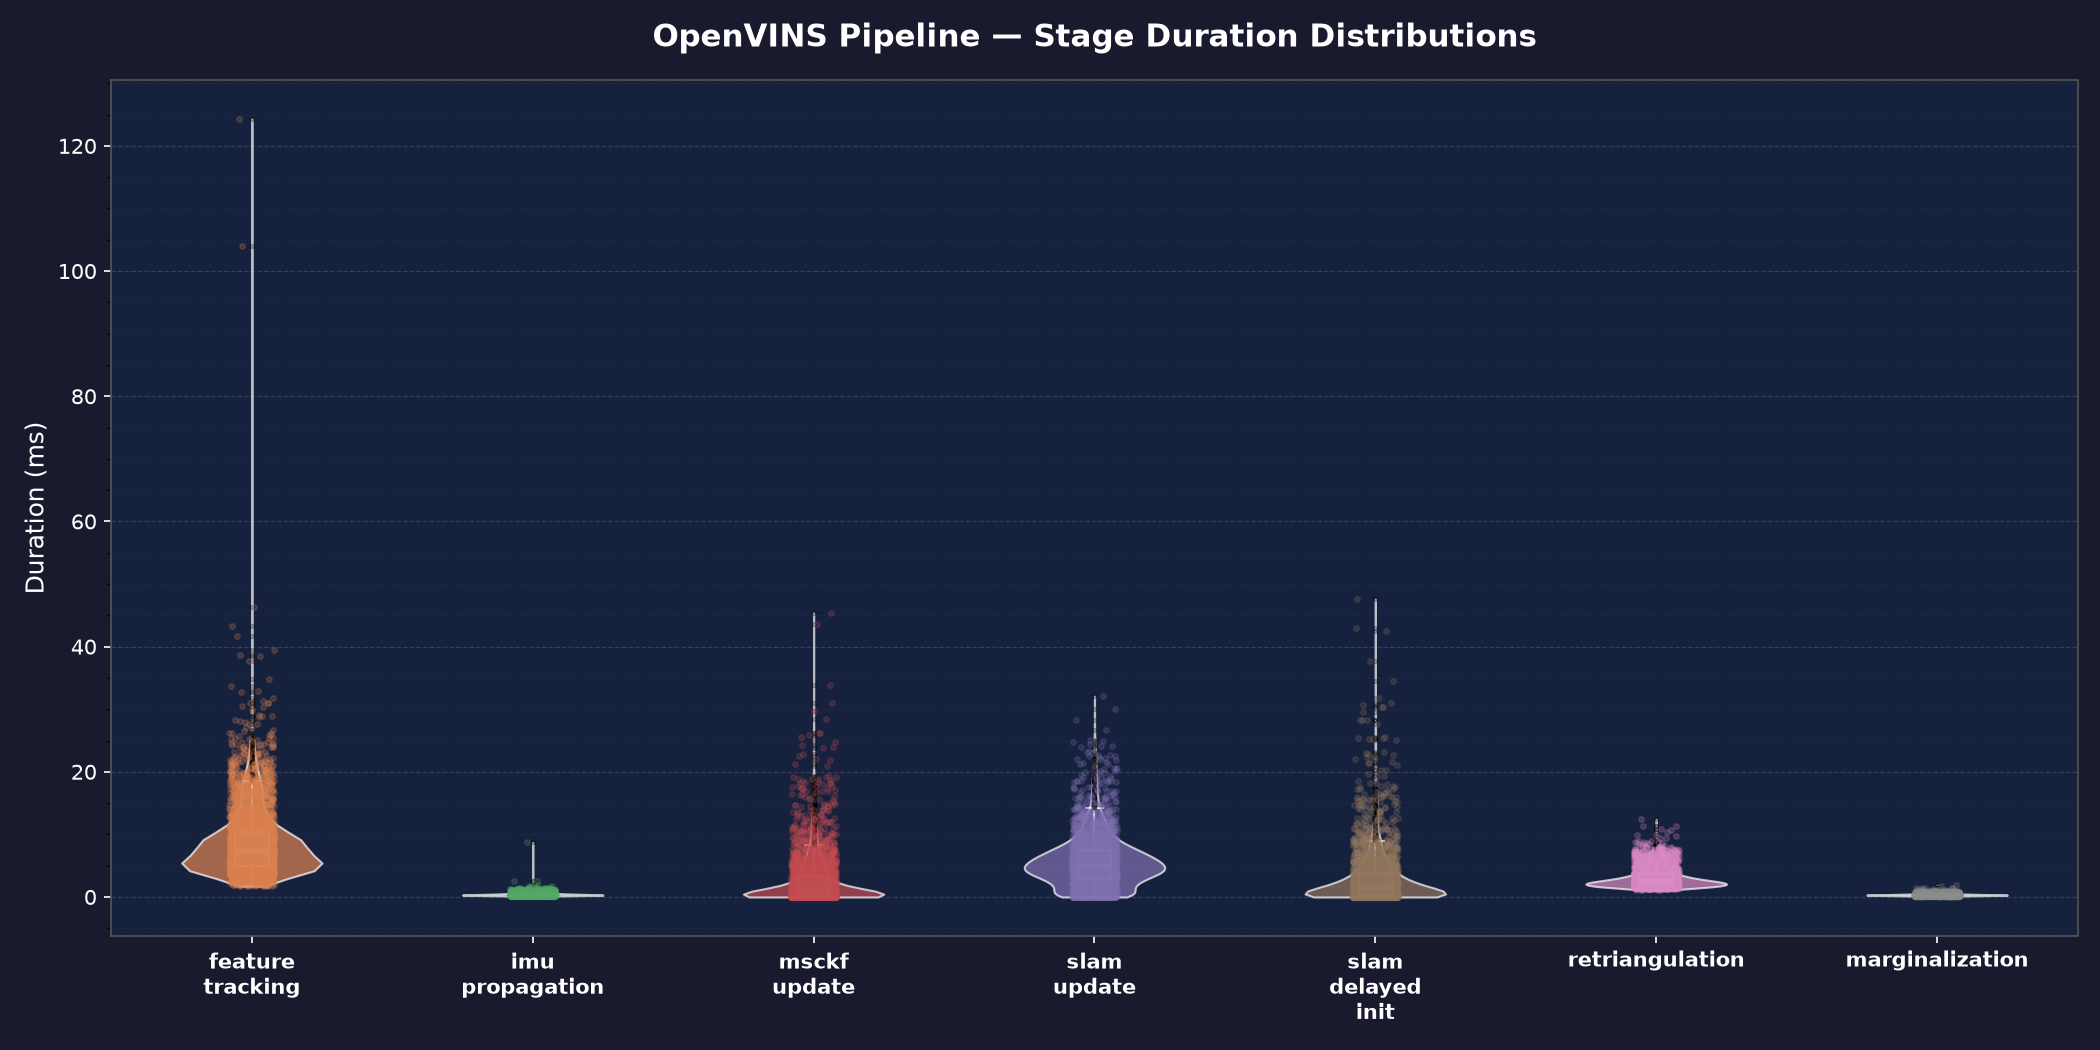
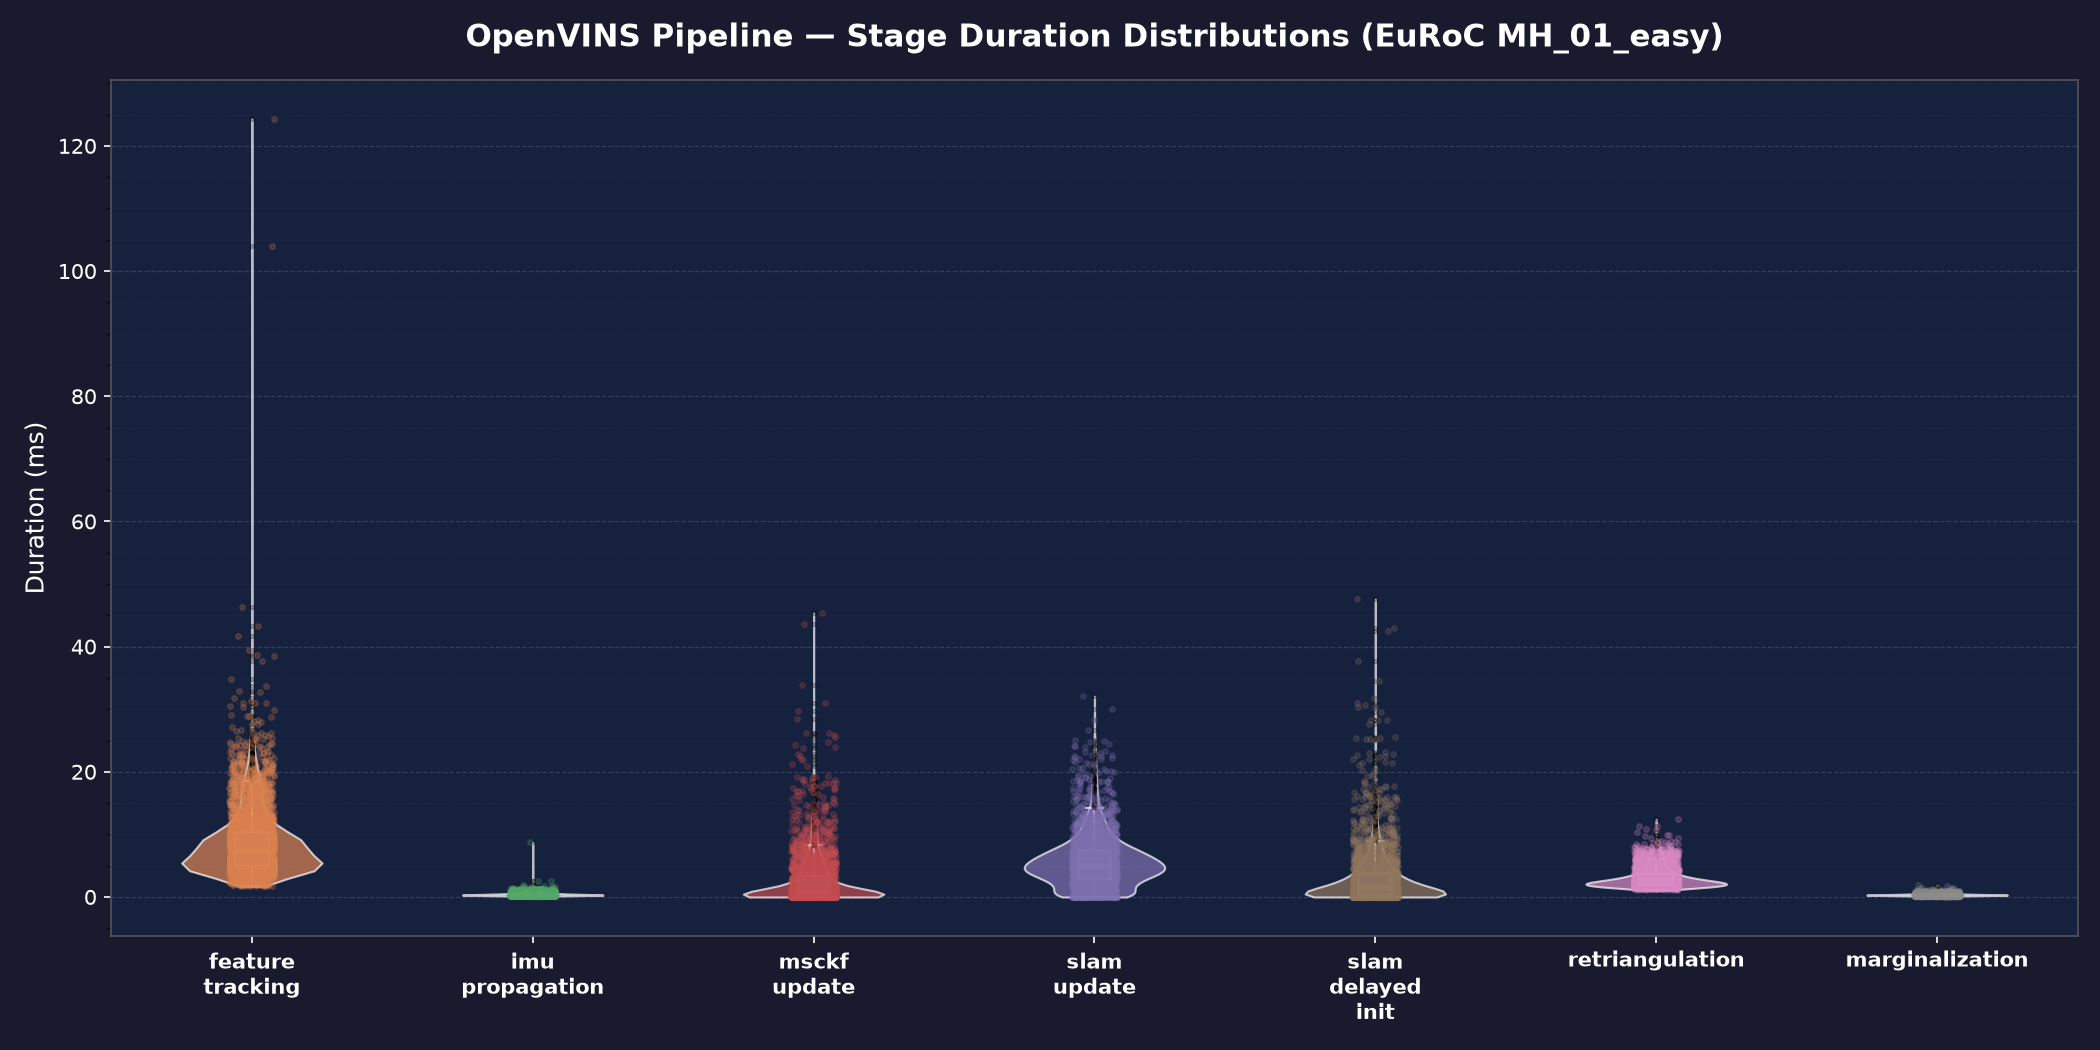
Fix Gantt chart rendering by excluding total_frame overlap and adding zoomed frame-by-frame view

diff --git a/scratch/plot_timing.py b/scratch/plot_timing.py
@@ -5,16 +5,11 @@ OpenVINS Pipeline Timing Visualizer
 Reads the scoped-timer CSV produced by the instrumented OpenVINS build
 and generates:
   1. Violin + box plot — distribution of per-stage durations across all frames
-  2. Gantt chart — per-frame timeline with one horizontal lane per thread,
-     colour-coded by pipeline stage
+  2. Macro Gantt chart — thread timeline across frames
+  3. Detailed Zoomed Gantt chart — frame-by-frame breakdown showing sub-stage sequence
 
 Usage:
     python3 plot_timing.py --csv /output/ov_scoped_timing.csv --out /output/timing_plots
-
-Output files:
-    timing_distribution.png   — violin/box plot of duration distributions
-    timing_gantt.png           — Gantt chart (thread lanes, colour by stage)
-    timing_summary.csv         — per-stage statistics (mean, median, std, min, max, p95)
 """
 
 import argparse
@@ -29,15 +24,14 @@ from matplotlib.lines import Line2D
 
 # ── Colour palette (one colour per stage) ───────────────────────────────────────
 STAGE_COLOURS = {
-    "total_frame":      "#4C72B0",
-    "feature_tracking": "#DD8452",
-    "imu_propagation":  "#55A868",
-    "msckf_update":     "#C44E52",
-    "slam_update":      "#8172B2",
-    "slam_delayed_init":"#937860",
-    "retriangulation":  "#DA8BC3",
-    "marginalization":  "#8C8C8C",
-    "zupt_update":      "#CCB974",
+    "feature_tracking":  "#DD8452",
+    "imu_propagation":   "#55A868",
+    "msckf_update":      "#C44E52",
+    "slam_update":       "#8172B2",
+    "slam_delayed_init": "#937860",
+    "retriangulation":   "#DA8BC3",
+    "marginalization":   "#8C8C8C",
+    "zupt_update":       "#CCB974",
 }
 DEFAULT_COLOUR = "#64b5f6"
 
@@ -53,24 +47,20 @@ def load_csv(path: str) -> pd.DataFrame:
     assert {"frame_id", "module", "thread_id", "start_ns", "end_ns", "duration_ms"}.issubset(
         df.columns
     ), f"Missing columns. Got: {list(df.columns)}"
-    # Normalise thread IDs to short labels: T0, T1, T2 …
-    uid_map = {uid: f"T{i}" for i, uid in enumerate(sorted(df["thread_id"].unique()))}
+    uid_map = {uid: f"Thread-{i+1}" for i, uid in enumerate(sorted(df["thread_id"].unique()))}
     df["thread_label"] = df["thread_id"].map(uid_map)
     return df
 
 
 # ── 1. Violin + Box Distribution Plot ────────────────────────────────────────────
 def plot_distribution(df: pd.DataFrame, out_dir: str):
-    # Exclude total_frame for the per-stage distribution (it's the sum)
     stages = [s for s in df["module"].unique() if s != "total_frame"]
-    # Preserve a logical ordering
     order = [
         "feature_tracking", "imu_propagation", "msckf_update",
         "slam_update", "slam_delayed_init", "retriangulation",
         "marginalization", "zupt_update",
     ]
     stages_ordered = [s for s in order if s in stages] + [s for s in stages if s not in order]
-
     data_per_stage = [df[df["module"] == s]["duration_ms"].dropna().values for s in stages_ordered]
 
     fig, ax = plt.subplots(figsize=(14, 7))
@@ -80,15 +70,13 @@ def plot_distribution(df: pd.DataFrame, out_dir: str):
     positions = range(1, len(stages_ordered) + 1)
     vp = ax.violinplot(data_per_stage, positions=list(positions), showmedians=False, showextrema=False)
 
-    # Style violins
     for i, body in enumerate(vp["bodies"]):
         col = stage_colour(stages_ordered[i])
         body.set_facecolor(col)
         body.set_edgecolor("white")
         body.set_alpha(0.7)
 
-    # Overlay box plots
-    bp = ax.boxplot(
+    ax.boxplot(
         data_per_stage,
         positions=list(positions),
         widths=0.12,
@@ -101,7 +89,6 @@ def plot_distribution(df: pd.DataFrame, out_dir: str):
         flierprops=dict(marker=".", color="white", alpha=0.3, markersize=3),
     )
 
-    # Scatter individual points
     for i, vals in enumerate(data_per_stage):
         if len(vals) == 0:
             continue
@@ -115,7 +102,7 @@ def plot_distribution(df: pd.DataFrame, out_dir: str):
     )
     ax.set_ylabel("Duration (ms)", color="white", fontsize=12)
     ax.set_title(
-        "OpenVINS Pipeline — Stage Duration Distributions",
+        "OpenVINS Pipeline — Stage Duration Distributions (EuRoC MH_01_easy)",
         color="white", fontsize=15, fontweight="bold", pad=16,
     )
     ax.tick_params(colors="white")
@@ -131,64 +118,52 @@ def plot_distribution(df: pd.DataFrame, out_dir: str):
     print(f"[✔] Distribution plot saved → {path}")
 
 
-# ── 2. Gantt Chart ────────────────────────────────────────────────────────────────
-def plot_gantt(df: pd.DataFrame, out_dir: str, max_frames: int = 60):
-    # Limit to first max_frames for readability
-    frames = sorted(df["frame_id"].unique())[:max_frames]
-    df_g = df[df["frame_id"].isin(frames)].copy()
+# ── 2. Macro Thread Gantt Chart ──────────────────────────────────────────────────
+def plot_gantt_macro(df: pd.DataFrame, out_dir: str, max_frames: int = 50):
+    # Filter out total_frame to prevent overlapping blocks!
+    df_sub = df[df["module"] != "total_frame"].copy()
+    frames = sorted(df_sub["frame_id"].unique())[:max_frames]
+    df_g = df_sub[df_sub["frame_id"].isin(frames)].copy()
 
-    # Convert timestamps to ms relative to first start
     t0 = df_g["start_ns"].min()
     df_g["start_ms"] = (df_g["start_ns"] - t0) * 1e-6
     df_g["end_ms"]   = (df_g["end_ns"]   - t0) * 1e-6
 
-    # Thread lane mapping
     threads = sorted(df_g["thread_label"].unique())
     thread_y = {t: i for i, t in enumerate(threads)}
-    lane_height = 0.6
+    lane_height = 0.65
 
-    fig, ax = plt.subplots(figsize=(22, 3 + 2 * len(threads)))
+    fig, ax = plt.subplots(figsize=(20, 3 + 2 * len(threads)))
     fig.patch.set_facecolor("#1a1a2e")
     ax.set_facecolor("#16213e")
 
     for _, row in df_g.iterrows():
         y = thread_y[row["thread_label"]]
-        width = row["end_ms"] - row["start_ms"]
+        width = max(row["end_ms"] - row["start_ms"], 0.1)
         rect = mpatches.FancyBboxPatch(
             (row["start_ms"], y - lane_height / 2),
             width, lane_height,
-            boxstyle="round,pad=0.3",
+            boxstyle="round,pad=0.02",
             facecolor=stage_colour(row["module"]),
             edgecolor="#1a1a2e",
-            linewidth=0.4,
-            alpha=0.85,
+            linewidth=0.3,
+            alpha=0.9,
         )
         ax.add_patch(rect)
-        # Label only if wide enough
-        if width > 2.0:
-            ax.text(
-                row["start_ms"] + width / 2,
-                y,
-                row["module"].replace("_", "\n"),
-                ha="center", va="center",
-                fontsize=6, color="white", fontweight="bold",
-                clip_on=True,
-            )
 
     ax.set_yticks(list(thread_y.values()))
     ax.set_yticklabels(list(thread_y.keys()), color="white", fontsize=11, fontweight="bold")
-    ax.set_ylim(-1, len(threads))
-    ax.set_xlim(0, df_g["end_ms"].max() * 1.01)
-    ax.set_xlabel("Wall-clock time (ms)", color="white", fontsize=12)
+    ax.set_ylim(-0.8, len(threads) - 0.2)
+    ax.set_xlim(0, df_g["end_ms"].max() * 1.02)
+    ax.set_xlabel("Elapsed Time (ms)", color="white", fontsize=12)
     ax.set_title(
-        f"OpenVINS Pipeline Gantt — first {max_frames} frames ({len(threads)} thread(s))",
+        f"OpenVINS Thread Execution Timeline — Macro View ({max_frames} frames, {len(threads)} thread(s))",
         color="white", fontsize=14, fontweight="bold", pad=14,
     )
     ax.tick_params(colors="white")
     ax.spines[:].set_edgecolor("#555")
     ax.grid(axis="x", color="#ffffff22", linestyle="--", linewidth=0.5)
 
-    # Legend
     legend_handles = [
         Line2D([0], [0], color=stage_colour(s), linewidth=8, label=s)
         for s in STAGE_COLOURS
@@ -202,10 +177,84 @@ def plot_gantt(df: pd.DataFrame, out_dir: str, max_frames: int = 60):
     path = os.path.join(out_dir, "timing_gantt.png")
     plt.savefig(path, dpi=150, facecolor=fig.get_facecolor())
     plt.close(fig)
-    print(f"[✔] Gantt chart saved → {path}")
+    print(f"[✔] Macro Gantt chart saved → {path}")
 
 
-# ── 3. Summary statistics CSV ─────────────────────────────────────────────────────
+# ── 3. Zoomed Sequential Sub-stage Gantt Chart ────────────────────────────────────
+def plot_gantt_zoomed(df: pd.DataFrame, out_dir: str, start_frame: int = 200, num_frames: int = 8):
+    # Filter for initialized frames (e.g. frame 200 to 208)
+    frames = [f for f in sorted(df["frame_id"].unique()) if f >= start_frame][:num_frames]
+    df_zoom = df[(df["frame_id"].isin(frames)) & (df["module"] != "total_frame")].copy()
+
+    if df_zoom.empty:
+        print("[!] Warning: Zoomed range empty, skipping zoomed gantt")
+        return
+
+    t0 = df_zoom["start_ns"].min()
+    df_zoom["start_ms"] = (df_zoom["start_ns"] - t0) * 1e-6
+    df_zoom["end_ms"]   = (df_zoom["end_ns"]   - t0) * 1e-6
+
+    # Plot each frame on its own row to show exact sequence of stages!
+    frame_y = {f: i for i, f in enumerate(reversed(frames))}
+    lane_height = 0.55
+
+    fig, ax = plt.subplots(figsize=(18, 1 + 1.2 * len(frames)))
+    fig.patch.set_facecolor("#1a1a2e")
+    ax.set_facecolor("#16213e")
+
+    for _, row in df_zoom.iterrows():
+        y = frame_y[row["frame_id"]]
+        width = max(row["end_ms"] - row["start_ms"], 0.08)
+        rect = mpatches.FancyBboxPatch(
+            (row["start_ms"], y - lane_height / 2),
+            width, lane_height,
+            boxstyle="round,pad=0.03",
+            facecolor=stage_colour(row["module"]),
+            edgecolor="#ffffff",
+            linewidth=0.6,
+            alpha=0.9,
+        )
+        ax.add_patch(rect)
+        if width > 1.2:
+            ax.text(
+                row["start_ms"] + width / 2,
+                y,
+                f"{row['module'].replace('_', ' ')}\n({row['duration_ms']:.1f}ms)",
+                ha="center", va="center",
+                fontsize=7, color="white", fontweight="bold",
+                clip_on=True,
+            )
+
+    ax.set_yticks([frame_y[f] for f in reversed(frames)])
+    ax.set_yticklabels([f"Frame {f}" for f in reversed(frames)], color="white", fontsize=11, fontweight="bold")
+    ax.set_ylim(-0.8, len(frames) - 0.2)
+    ax.set_xlim(-1, df_zoom["end_ms"].max() * 1.02)
+    ax.set_xlabel("Relative Time (ms)", color="white", fontsize=12)
+    ax.set_title(
+        f"OpenVINS Detailed Pipeline Sequence — Zoomed (Frames {frames[0]}–{frames[-1]})",
+        color="white", fontsize=14, fontweight="bold", pad=14,
+    )
+    ax.tick_params(colors="white")
+    ax.spines[:].set_edgecolor("#555")
+    ax.grid(axis="x", color="#ffffff22", linestyle="--", linewidth=0.5)
+
+    legend_handles = [
+        Line2D([0], [0], color=stage_colour(s), linewidth=8, label=s)
+        for s in STAGE_COLOURS
+        if s in df_zoom["module"].values
+    ]
+    ax.legend(handles=legend_handles, loc="upper right",
+              facecolor="#0f3460", edgecolor="#555", labelcolor="white",
+              fontsize=9, ncol=2, framealpha=0.85)
+
+    plt.tight_layout()
+    path = os.path.join(out_dir, "timing_gantt_zoomed.png")
+    plt.savefig(path, dpi=150, facecolor=fig.get_facecolor())
+    plt.close(fig)
+    print(f"[✔] Zoomed Gantt chart saved → {path}")
+
+
+# ── 4. Summary statistics CSV ─────────────────────────────────────────────────────
 def compute_summary(df: pd.DataFrame, out_dir: str):
     stats = (
         df.groupby("module")["duration_ms"]
@@ -232,7 +281,7 @@ def main():
     parser = argparse.ArgumentParser(description="OpenVINS timing visualizer")
     parser.add_argument("--csv", required=True, help="Path to ov_scoped_timing.csv")
     parser.add_argument("--out", default=".", help="Output directory for plots and summary")
-    parser.add_argument("--max-frames", type=int, default=60, help="Max frames shown in Gantt chart")
+    parser.add_argument("--max-frames", type=int, default=50, help="Max frames shown in macro Gantt")
     args = parser.parse_args()
 
     os.makedirs(args.out, exist_ok=True)
@@ -243,7 +292,8 @@ def main():
           f"and {df['thread_id'].nunique()} thread(s)")
 
     plot_distribution(df, args.out)
-    plot_gantt(df, args.out, max_frames=args.max_frames)
+    plot_gantt_macro(df, args.out, max_frames=args.max_frames)
+    plot_gantt_zoomed(df, args.out, start_frame=200, num_frames=8)
     compute_summary(df, args.out)
     print("\n[✔] All plots generated successfully!")
 
